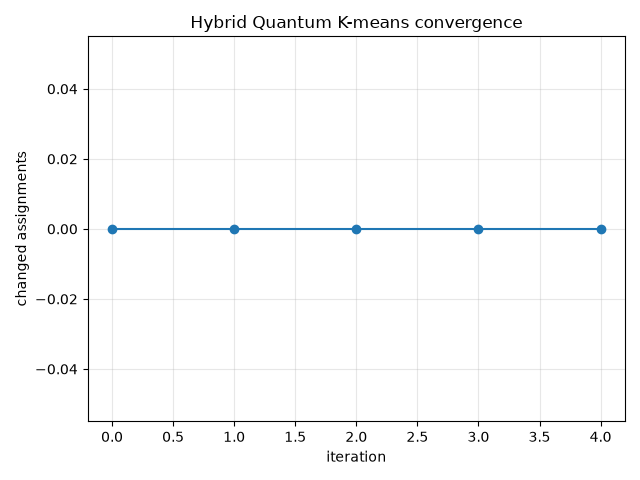
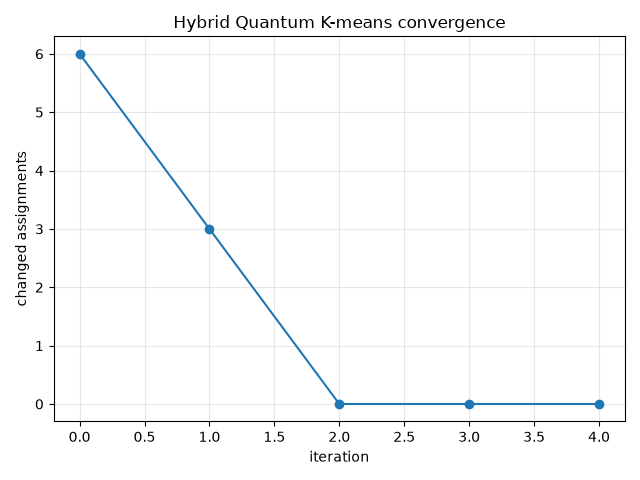
- fixed some issues with the Dictionary and csv logging - implemented convergence criterion and per-Iteration tracking of kmeans assingments - re-run results

diff --git a/projects/kmeans.py b/projects/kmeans.py
@@ -78,7 +78,7 @@ def quantum_overlap_squared(
     )
 
 
-def initialize_centroids(data, k, seed=123):
+def initialize_centroids(data, k, seed=42):
     random.seed(seed)
     return random.sample(list(data), k)
 
@@ -143,7 +143,7 @@ def assign_points_quantum(
 
             score_rows.append({
                 "point_label": point["label"],
-                "cluster_id": cluster_id,
+                "cluster": cluster_id,
                 "overlap_sq": overlap_sq,
                 "distance_q": distance_q,
             })
@@ -156,7 +156,7 @@ def assign_points_quantum(
 
         assignment_rows.append({
             "point_label": point["label"],
-            "cluster_id": best_cluster,
+            "assigned_cluster": best_cluster,
         })
 
     return assignments, assignment_rows, score_rows
@@ -235,6 +235,9 @@ def run_quantum_kmeans(
 
     all_scores = []
     all_assignments = []
+    centroid_rows = []
+    convergence_rows = []
+    # TODO: add convergence rows with iteration, num_changed and stable
 
     for iteration in range(max_iter):
 
@@ -243,8 +246,11 @@ def run_quantum_kmeans(
         all_scores.extend(score_rows)
         all_assignments.extend(assignment_rows)
 
-        if assignments == previous_assignments:
-            break
+        print(f"assignments: {assignments}, previous: {previous_assignments}")
+        stable = assignments == previous_assignments
+        num_changed = sum([x != y for x, y in zip(assignments, previous_assignments)]) if previous_assignments is not None else len(assignments)
+        convergence_rows.append({"iteration": iteration, "num_changed": num_changed, "stable": stable})
+
 
         previous_assignments = assignments
 
@@ -254,10 +260,15 @@ def run_quantum_kmeans(
             k,
             centroids,
         )
+
+        for j in range(len(centroids)):
+            centroid_rows.append({"iteration": iteration, "cluster": assignments[j], "centroid_label": centroids[j]["label"], "c0": centroids[j]["vector"][0], "c1": centroids[j]["vector"][1]})
     
     return {
+        "centroid_rows": centroid_rows,
         "centroids": centroids,
         "assignments": assignments,
         "score_rows": all_scores,
         "assignment_rows": all_assignments,
+        "convergence_rows": convergence_rows
     }